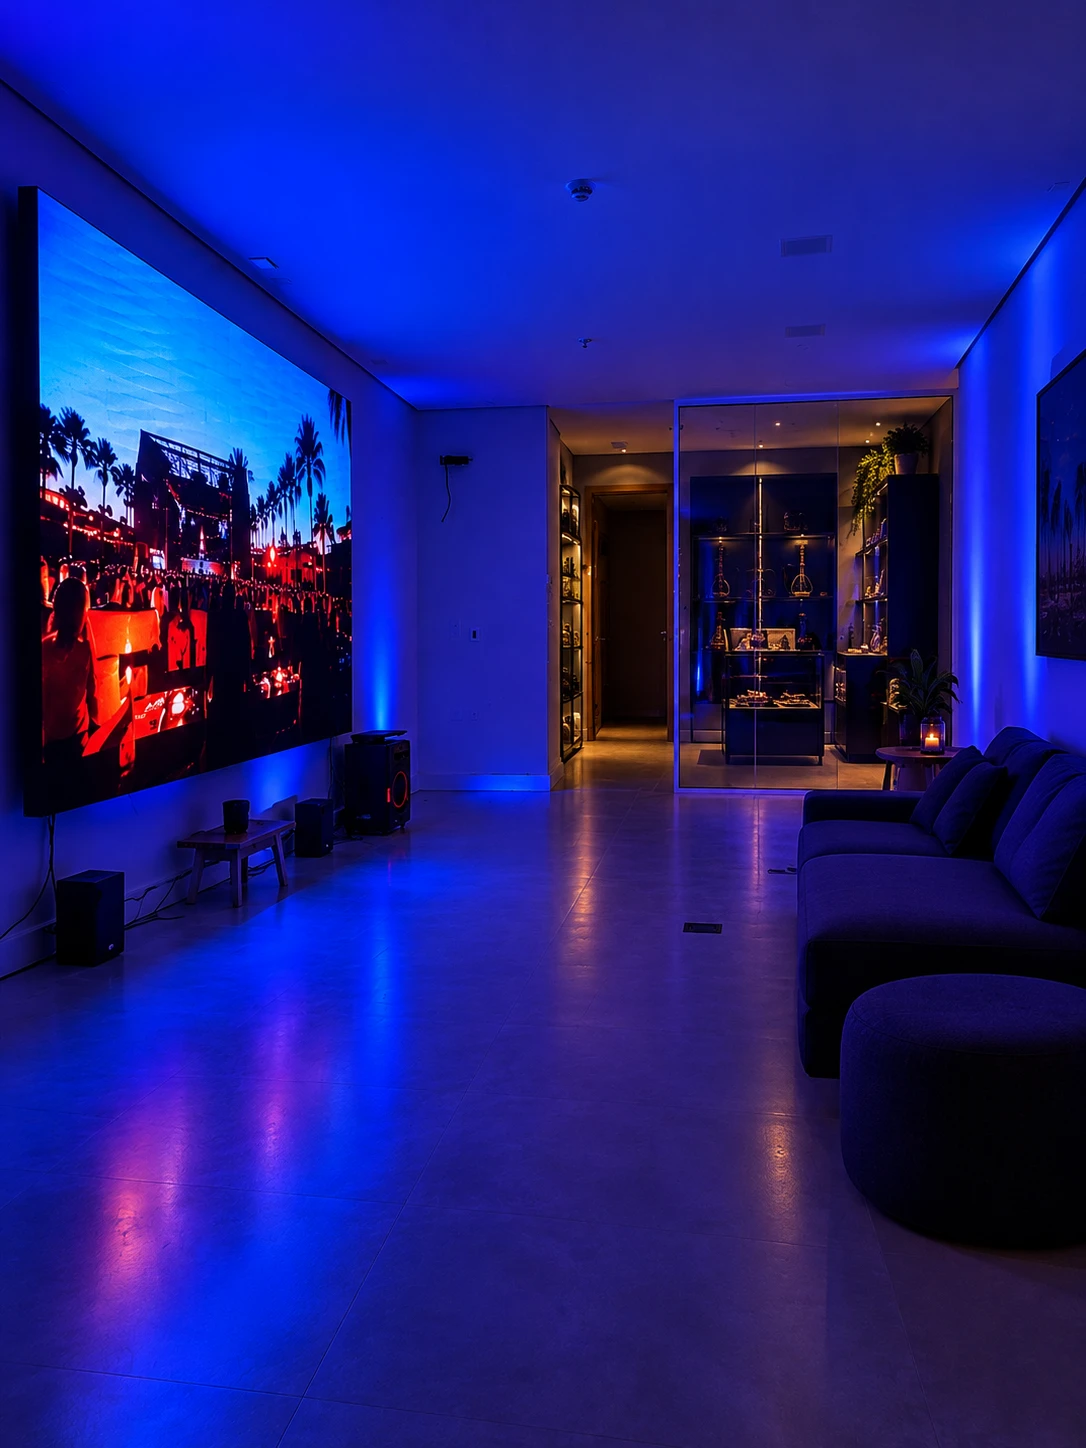
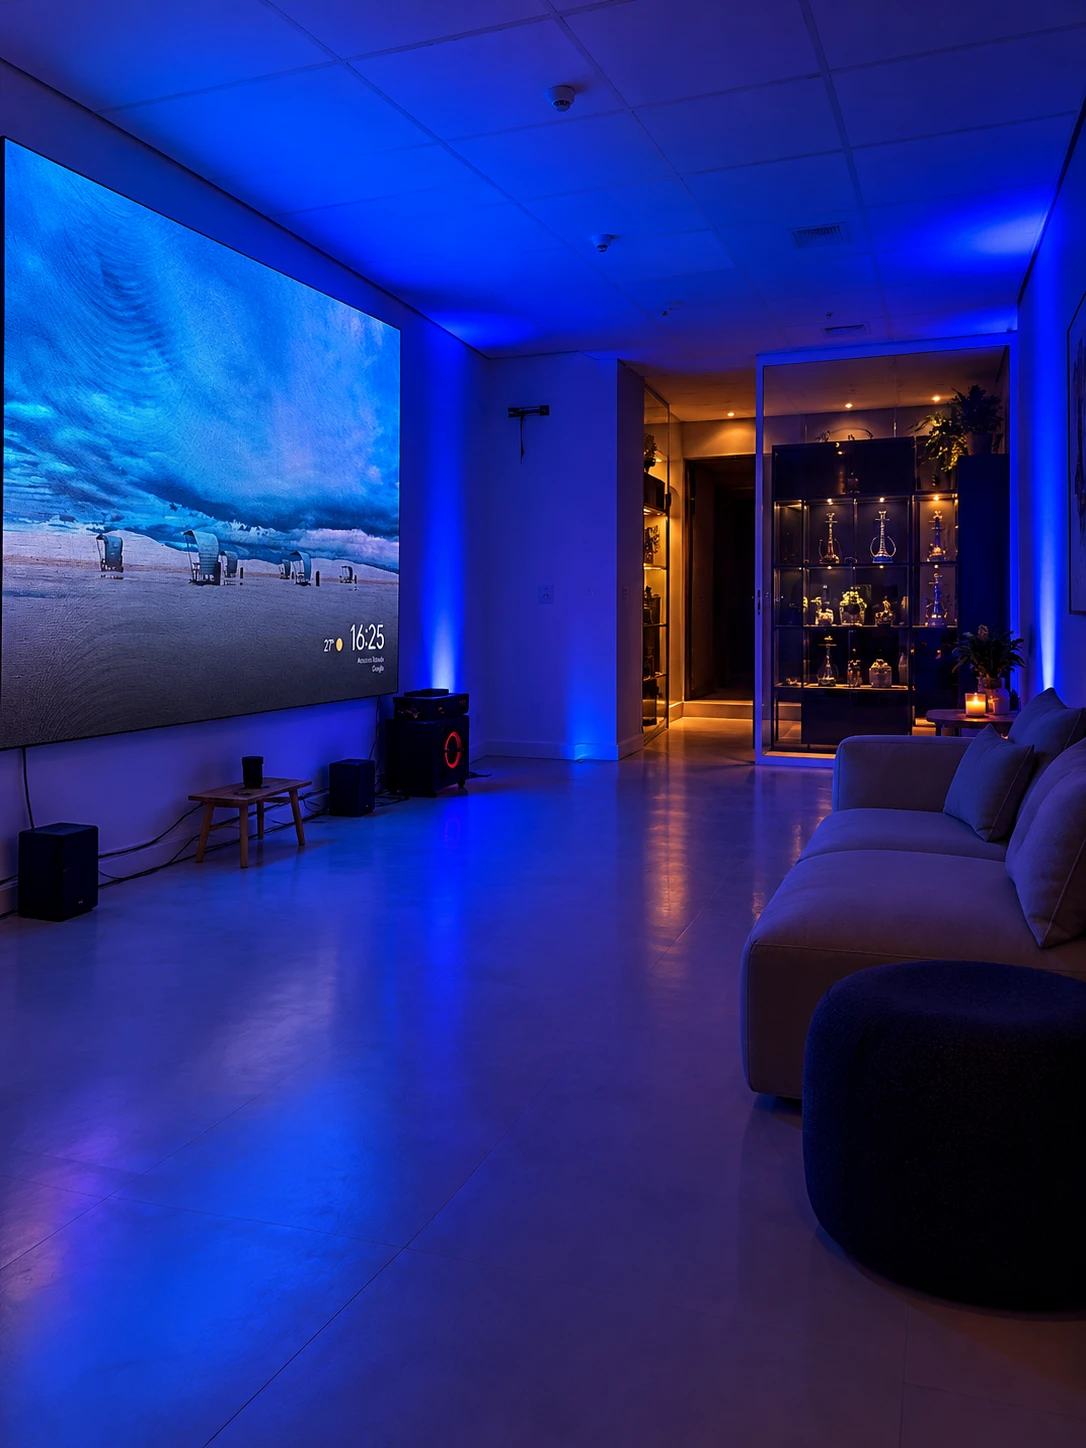
Revisão geral da página de DJs: topo com foto e barra de reserva
- Topo com a foto do DJ no espaço e chamada nova: "Seu set com cara de
  festival", com o equipamento e o painel LED logo no subtítulo.
- Fotos sem repetir: painel com show no bloco do LED, sofá no lounge.
- Barra fixa no celular com preço e botão Reservar, que aparece depois
  do topo e some na seção de pacotes.
- Nome na fatura do cartão passa a ser ALPHACREATOR (antes saía
  ALPHAHOUSE); função de pagamento atualizada com as proteções da Alpha
  House (pedido malformado responde 400).
- Foto do topo pré-carregada e dados estruturados (schema.org).

Claude-Session: https://claude.ai/code/session_0132qCTgewrJ4YP2Q7rvMext

diff --git a/index.html b/index.html
@@ -18,7 +18,16 @@
 <meta name="twitter:card" content="summary_large_image">
 <meta name="theme-color" content="#0a0a0c">
 <link rel="icon" href="img/logo-ag.jpg">
+<link rel="preload" as="image" href="img/dj-espaco.webp" fetchpriority="high">
 <link rel="stylesheet" href="assets/checkout.css">
+<script type="application/ld+json">
+{"@context":"https://schema.org","@type":"LocalBusiness","name":"Alpha Galerie Creator",
+ "description":"Estúdio para DJs em Perdizes, São Paulo: treino com Pioneer CDJ-200 + DJM-600 e estúdio completo com painel LED 3×3 m para gravar o seu set.",
+ "url":"https://djcreator.alphagalerie.com/","image":"https://djcreator.alphagalerie.com/img/og-dj.jpg",
+ "address":{"@type":"PostalAddress","addressLocality":"São Paulo","addressRegion":"SP","addressCountry":"BR"},
+ "areaServed":"Perdizes, São Paulo","priceRange":"R$ 150 – R$ 1.000",
+ "sameAs":["https://www.instagram.com/alpha_space_sp/"]}
+</script>
 <style>
   @import url('https://fonts.googleapis.com/css2?family=Cormorant+Garamond:wght@500;600;700&family=Sora:wght@300;400;500;600&display=swap');
 
@@ -317,6 +326,20 @@
     .btn-gold, .btn-line { justify-content:center; }
     .equip-photo { height:340px; }
   }
+  /* ============ TOPO COM FOTO ============ */
+  .hero.com-foto {
+    background:
+      linear-gradient(90deg, rgba(10,10,12,0.95) 0%, rgba(10,10,12,0.78) 40%, rgba(10,10,12,0.12) 100%),
+      linear-gradient(180deg, rgba(10,10,12,0.5) 0%, transparent 30%, rgba(10,10,12,0.92) 100%),
+      url('img/dj-espaco.webp') center 40% / cover no-repeat;
+  }
+  @media (max-width:860px) {
+    .hero.com-foto {
+      background:
+        linear-gradient(180deg, rgba(10,10,12,0.72) 0%, rgba(10,10,12,0.82) 50%, rgba(10,10,12,0.97) 100%),
+        url('img/dj-espaco.webp') 62% 30% / cover no-repeat;
+    }
+  }
 </style>
 </head>
 <body>
@@ -327,14 +350,14 @@
 </nav>
 
 <!-- HERO -->
-<header class="hero" id="top">
+<header class="hero com-foto" id="top">
   <div class="hero-content">
     <div class="hero-eyebrow"><span class="line-mark"></span> Perdizes · São Paulo</div>
     <h1 class="serif">
-      <span class="line">Seu espaço de</span>
-      <span class="line"><span class="gold">criação</span> em Perdizes</span>
+      <span class="line">Seu set com</span>
+      <span class="line">cara de <span class="gold">festival</span></span>
     </h1>
-    <p class="hero-sub">Cultura, arte e entretenimento num só lugar. Um espaço pra <strong>desconectar do mundo</strong>, mergulhar na música, conectar com outras pessoas — e sair com o seu melhor trabalho.</p>
+    <p class="hero-sub">Painel LED de 3×3 m, Pioneer CDJ-200 + DJM-600 e lounge em Perdizes. <strong>Treine sem incomodar ninguém e grave o conteúdo que o seu feed merece.</strong></p>
     <div class="hero-actions">
       <a href="#pacotes" class="btn-gold">Reservar meu horário →</a>
       <a href="#pacotes" class="btn-line">Explorar o espaço <span class="arrow">↓</span></a>
@@ -372,7 +395,7 @@
       <h3 class="serif">O painel já é o <span class="gold">cenário</span></h3>
       <p>Você não monta nada. Liga o LED, posiciona o celular — e seu set já sai parecendo produção de festival. O ambiente faz o trabalho pelo seu conteúdo. (Painel LED incluso no Estúdio completo.)</p>
     </div>
-    <div class="show-img-full"><div class="frame"><img src="img/dj-espaco.webp" alt="DJ tocando com o painel LED ao fundo e convidados no lounge" style="object-position:center 42%"></div></div>
+    <div class="show-img-full"><div class="frame"><img src="img/telao.webp" alt="Painel LED exibindo um show no lounge" style="object-position:center 40%" loading="lazy"></div></div>
   </div>
 
   <div class="show-block reveal">
@@ -380,7 +403,7 @@
       <h3 class="serif">Lounge pra <span class="gold">conectar</span></h3>
       <p>Climatizado, com vibe, espaço pra respirar entre takes. Você conecta com quem chegou junto — troca ideia, colabora, descobre parceria. Esse encontro não acontece num quarto sozinho.</p>
     </div>
-    <div class="show-img-full"><div class="frame"><img src="img/lounge.webp" alt="Lounge interno"></div></div>
+    <div class="show-img-full"><div class="frame"><img src="img/lounge.webp" alt="Lounge com sofá, painel LED e luz baixa" style="object-position:center 60%" loading="lazy"></div></div>
   </div>
 
   <div class="show-block reveal">
@@ -388,7 +411,7 @@
       <h3 class="serif">Varanda com <span class="gold">vista aberta</span></h3>
       <p>Ar livre, vista da cidade, um respiro entre um set e outro. Às vezes a melhor ideia do set vem num momento assim — longe do barulho, longe de tudo.</p>
     </div>
-    <div class="show-img-full"><div class="frame"><img src="img/varanda.webp" alt="Lounge com varanda no fim de tarde"></div></div>
+    <div class="show-img-full"><div class="frame"><img src="img/varanda.webp" alt="Lounge com varanda no fim de tarde" loading="lazy"></div></div>
   </div>
 
 </section>

diff --git a/api/checkout.js b/api/checkout.js
@@ -14,6 +14,11 @@ function siteUrl(req) {
   return "https://" + host;
 }
 
+/* Data de hoje em São Paulo, no formato ano-mês-dia */
+function hojeSP() {
+  return new Intl.DateTimeFormat("en-CA", { timeZone: "America/Sao_Paulo" }).format(new Date());
+}
+
 function limpa(v, max) {
   return String(v || "").replace(/[\u0000-\u001f]/g, " ").trim().slice(0, max);
 }
@@ -45,7 +50,9 @@ module.exports = async function handler(req, res) {
   const token = process.env.MP_ACCESS_TOKEN;
   if (!token) return res.status(503).json({ erro: "pagamento não configurado" });
 
-  const b = typeof req.body === "string" ? JSON.parse(req.body || "{}") : (req.body || {});
+  let b;
+  try { b = typeof req.body === "string" ? JSON.parse(req.body || "{}") : (req.body || {}); }
+  catch (e) { return res.status(400).json({ erro: "pedido inválido" }); }
   const oferta = CONFIG.OFERTAS.find(o => o.id === b.oferta);
   const pay = b.pay === "cartao" ? "cartao" : "pix";
   if (!oferta) return res.status(400).json({ erro: "oferta inválida" });
@@ -61,6 +68,7 @@ module.exports = async function handler(req, res) {
   if (oferta.id === "show") {
     show = CONFIG.SHOWS.find(s => s.id === b.show);
     if (!show || !show.disponivel) return res.status(400).json({ erro: "data indisponível" });
+    if (show.data && show.data <= hojeSP()) return res.status(400).json({ erro: "data encerrada" });
     titulo += " · " + show.artista + " " + show.dia.replace(/^.*· /, "") + " · " + show.horario;
   }
 
@@ -109,7 +117,7 @@ module.exports = async function handler(req, res) {
       payer: Object.assign({ name: nome }, email ? { email } : {}),
       external_reference: ref,
       metadata,
-      statement_descriptor: "ALPHAHOUSE",
+      statement_descriptor: CONFIG.DESCRITOR || "ALPHAHOUSE",
       back_urls: {
         success: volta.replace("{st}", "aprovado"),
         pending: volta.replace("{st}", "pendente"),

diff --git a/assets/checkout.js b/assets/checkout.js
@@ -43,6 +43,25 @@
     if (e.target.closest('a[href^="https://wa.me/"]')) track("Contact");
   });
 
+  /* ====== BARRA FIXA NO CELULAR: aparece depois do topo e some na seção de pacotes ====== */
+  var heroEl = document.querySelector(".hero"), pacotesEl = document.getElementById("pacotes");
+  if (CFG.BARRA && heroEl && "IntersectionObserver" in window) {
+    var cta = document.createElement("div"), vendoTopo = true, vendoPacotes = false;
+    cta.className = "cta-bar";
+    cta.innerHTML = '<span class="cta-txt"></span><a class="btn-gold" href="#pacotes">Reservar</a>';
+    var txt = cta.querySelector(".cta-txt");
+    txt.textContent = CFG.BARRA;
+    txt.innerHTML = txt.innerHTML.replace(/(R\$\s?[\d.]+(,\d+)?)/, "<b>$1</b>");
+    document.body.appendChild(cta);
+    document.body.classList.add("has-cta");
+    var atualiza = function () {
+      var m = !vendoTopo && !vendoPacotes;
+      cta.classList.toggle("on", m); document.body.classList.toggle("cta-on", m);
+    };
+    new IntersectionObserver(function (es) { vendoTopo = es[0].isIntersecting; atualiza(); }).observe(heroEl);
+    if (pacotesEl) new IntersectionObserver(function (es) { vendoPacotes = es[0].isIntersecting; atualiza(); }).observe(pacotesEl);
+  }
+
   /* ====== JANELA DE PAGAMENTO ====== */
   var modal = document.createElement("div");
   modal.className = "pay-modal"; modal.setAttribute("role", "dialog"); modal.setAttribute("aria-modal", "true");

diff --git a/assets/checkout.css b/assets/checkout.css
@@ -45,3 +45,19 @@
 .fundador .preco { font-family:'Cormorant Garamond',serif; font-size:44px; font-weight:600; color:var(--gold); line-height:1; }
 .fundador .preco small { font-family:'Sora',sans-serif; font-size:13px; color:var(--ash); font-weight:400; margin-left:6px; }
 @media (max-width:560px) { .wa-float { right:14px; bottom:14px; width:52px; height:52px; } .fundador { padding:24px 20px; } }
+
+/* Barra fixa no celular (preço + botão) */
+.cta-bar { position:fixed; left:0; right:0; bottom:0; z-index:1550; display:none; align-items:center; justify-content:space-between; gap:12px;
+  padding:12px 16px calc(12px + env(safe-area-inset-bottom,0px)); background:rgba(19,18,21,0.96);
+  backdrop-filter:blur(12px); -webkit-backdrop-filter:blur(12px); border-top:1px solid var(--line);
+  transform:translateY(110%); transition:transform 0.3s ease; }
+.cta-bar .cta-txt { font-size:14px; color:var(--bone); line-height:1.35; }
+.cta-bar .cta-txt b { font-family:'Cormorant Garamond',serif; font-size:20px; font-weight:600; color:var(--gold); }
+.cta-bar .btn-gold { padding:13px 22px; font-size:13px; flex-shrink:0; }
+.wa-float { transition:transform 0.2s, bottom 0.3s ease; }
+@media (max-width:860px) {
+  .cta-bar { display:flex; }
+  .cta-bar.on { transform:none; }
+  body.has-cta footer { padding-bottom:110px; }
+  body.cta-on .wa-float { bottom:84px; }
+}

diff --git a/config.js b/config.js
@@ -6,6 +6,8 @@
 (function (root) {
   var CONFIG = {
     NOME: "Alpha Galerie Creator",  /* aparece no Mercado Pago e no WhatsApp */
+    DESCRITOR: "ALPHACREATOR",      /* nome na fatura do cartão (até 13 letras, sem acento) */
+    BARRA: "A partir de R$ 150 por sessão",  /* barra fixa no celular */
     WPP: "5511926441522",           /* WhatsApp de atendimento */
     INSTAGRAM: { dj: "alpha_space_sp", fundador: "lleomaster" },
 

diff --git a/README.md b/README.md
@@ -4,7 +4,7 @@ Página de vendas para DJs em Perdizes, SP: treino com Pioneer, estúdio complet
 
 ## Onde mexer
 
-- **`config.js`**: preços (Pix e cartão), WhatsApp, Instagram e Pixel da Meta. Mudou aqui, muda na página e no Mercado Pago.
+- **`config.js`**: preços (Pix e cartão), horários, WhatsApp, Instagram, Pixel da Meta, nome na fatura do cartão e texto da barra fixa do celular. Mudou aqui, muda na página e no Mercado Pago.
 - **`index.html`**: textos da página.
 - **`img/`**: fotos. Trocar um arquivo pelo mesmo nome troca a foto.
 
